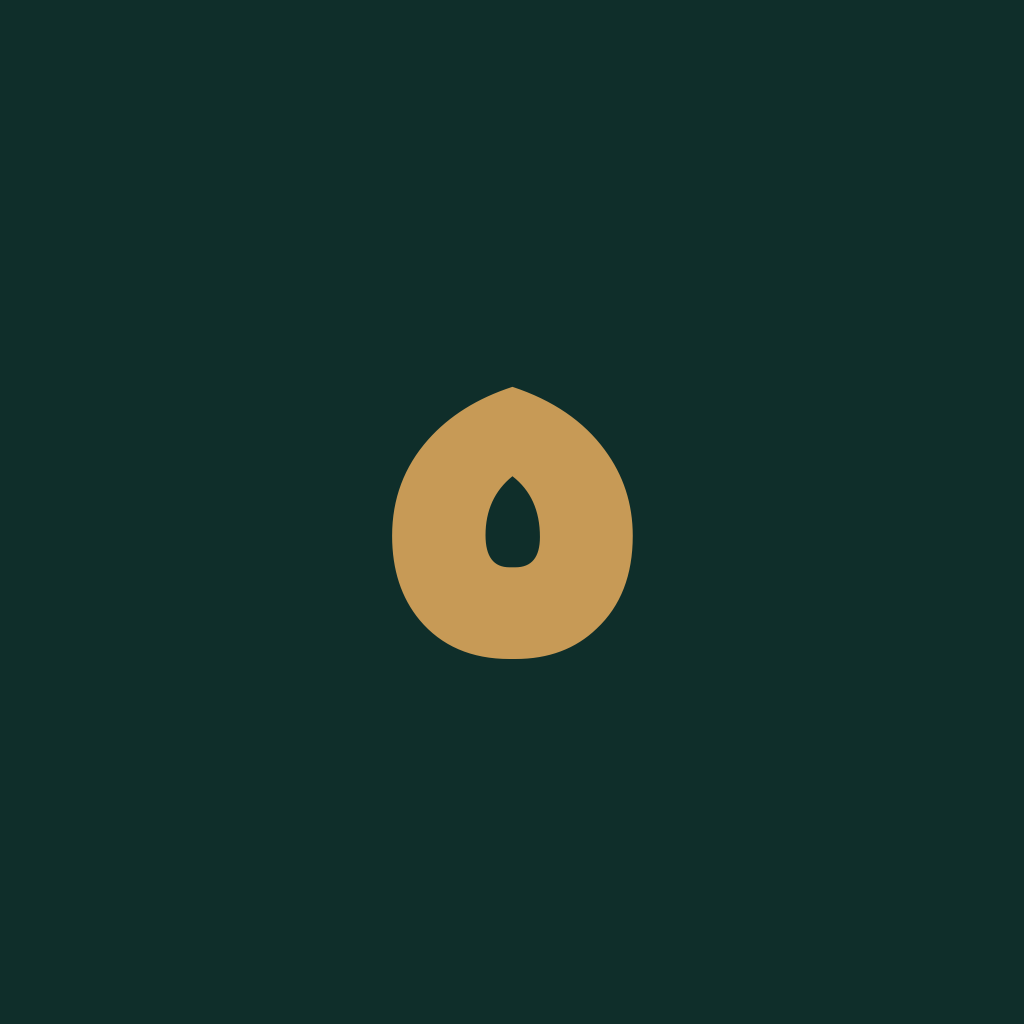
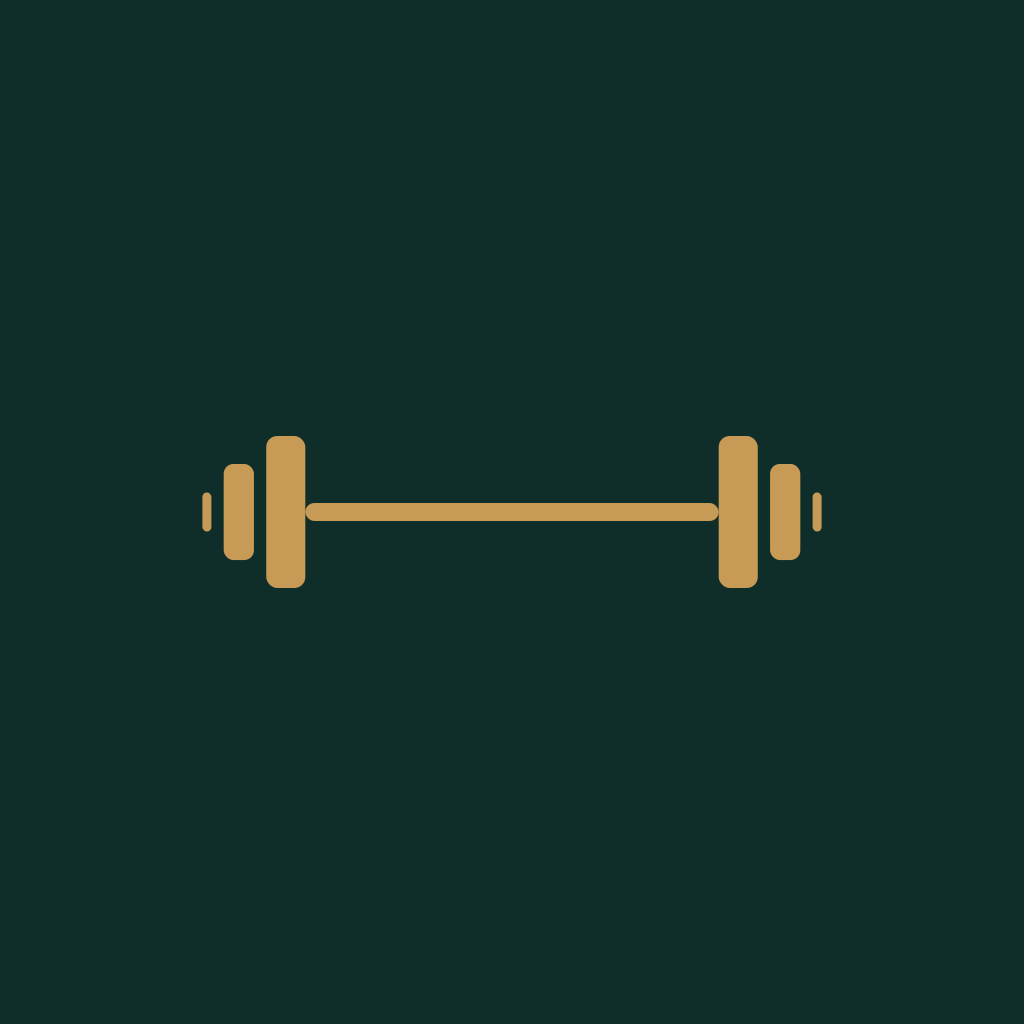
Replace placeholder mark with a real dumbbell matching the brand reference
The previous icon/splash assets used a generic teardrop/leaf shape as
the icon mark. Rebuilt it as a proper barbell (dumbbell) icon in SVG,
matching the proportions of the reference brand board image (plate
height/width, collar size, bar thickness all measured directly from
the reference and reproduced parametrically), in the exact same gold
(#C79A56) on the exact same dark teal (#0F2E2A) already used
throughout the design system.

- icon.png / favicon.png: dumbbell on solid teal background.
- splash-icon.png: only the small mark below the wordmark was
  replaced (cleared a bounded region well clear of the "هِمّة"
  calligraphy above it, verified by pixel bounding box before and
  after — the wordmark itself is untouched).
- android-icon-foreground.png: dumbbell on transparent background.
- android-icon-monochrome.png: same shape in flat white on
  transparent, per Android's monochrome adaptive-icon convention (the
  OS applies its own tint over the alpha shape).
- android-icon-background.png: unchanged (already solid teal).

Updated assets/branding/README.md and the App Store checklist to
describe the current state accurately instead of the stale "still
Expo's default template" note.

Claude-Session: https://claude.ai/code/session_01DYNSrsTWe6WqA7GvEzHspj

Changed region(s): [[0.1875, 0.375, 0.8125, 0.6562]]

diff --git a/assets/branding/README.md b/assets/branding/README.md
@@ -1,33 +1,35 @@
 # هوية هِمّة البصرية
 
-الشعار الرسمي وصل حتى الآن كصورة داخل المحادثة فقط، وليس كملف قابل
-للحفظ في المستودع. الألوان والخط المستخرجة منه مطبّقة فعليًا في
-`src/design-system` (انظر `colors.ts` و`typography.ts`)، لكن **الشعار
-نفسه كصورة (PNG/SVG) لم يُضَف بعد**.
+## الشعار الفعلي (مطابق للمرجع الرسمي الذي أرسله المالك)
 
-## الأيقونات الحالية (placeholder بهوية حقيقية، وليست الشعار النهائي)
+المرجع الرسمي "HEMMA | هِمّة — Brand Reference" (لوحة تحتوي الشعار
+الكامل + الألوان الأربعة) وصل كصورة مرجعية، وليس كملف PNG/SVG شفاف
+منعزل قابل للاستخدام مباشرة كأيقونة. لذلك أُعيد بناء علامة الدمبل
+(Barbell) الظاهرة في الشعار **متجهيًا (SVG)** بنفس نسب الشعار المرجعي
+بالضبط (قِيست يدويًا من الصورة: نسبة اللوحة الكبيرة/المتوسطة/الطوق
+الطرفي والقضيب الرفيع)، ثم استُبدلت بها العلامة المؤقتة (شكل دمعة/ورقة)
+الموجودة سابقًا في كل الأيقونات — بنفس الألوان المعتمدة تمامًا (تيل
+داكن `#0F2E2A` + ذهبي `#C79A56`)، بدون اختراع أي شكل جديد.
 
-بدل ترك أيقونة Expo الافتراضية (السهم الأزرق)، تم توليد أيقونة/سبلاش
-مؤقتة عبر سكربت بايثون (`gen_icons.py`، غير مضمّن في المستودع) تستخدم
-**فقط** ألوان وخط الهوية المعتمدَين فعليًا (تيل داكن `#0F2E2A` + ذهبي
-`#C79A56` + خط Tajawal) — بحرف "هـ" (أول حرف من "همة") كعلامة مبدئية،
-بدون اختراع أي شكل أو رمز جديد للهوية:
+كلمة "هِمّة" الخطّية (calligraphic wordmark) في `splash-icon.png`
+كانت موجودة أصلًا من جلسة سابقة ولم تُمَس إطلاقًا — فقط العلامة الصغيرة
+تحتها استُبدلت بالدمبل.
 
-- `assets/icon.png` — خلفية تيل داكن + حرف "هـ" ذهبي (أيقونة iOS/Android).
-- `assets/splash-icon.png` — كلمة "هِمّة" بالتيل + حرف "هـ" ذهبي، خلفية شفافة.
-- `assets/android-icon-*.png` — طبقات الأيقونة المتكيّفة لأندرويد بنفس الألوان.
-- `assets/favicon.png` — نفس أيقونة iOS مصغّرة (للويب فقط).
+- `assets/icon.png` — خلفية تيل داكن + دمبل ذهبي (أيقونة iOS/Android).
+- `assets/splash-icon.png` — كلمة "هِمّة" الخطّية (كما هي) + دمبل ذهبي تحتها، خلفية شفافة.
+- `assets/android-icon-foreground.png` / `-background.png` — طبقات أيقونة أندرويد المتكيّفة.
+- `assets/android-icon-monochrome.png` — نفس شكل الدمبل بلون أبيض واحد شفاف (أندرويد يطبّق تلوينه الخاص فوقه).
+- `assets/favicon.png` — نسخة مصغّرة من `icon.png` (للويب فقط).
 
-هذه الأيقونات **جاهزة لبناء EAS وتصلح للتجربة على الجهاز فعليًا**، لكنها
-تبقى مؤقتة إلى حين توفر الشعار الرسمي كملف حقيقي.
-
-## عند توفر ملف الشعار الفعلي
+## إن وصل ملف الشعار الرسمي الكامل (PNG/SVG شفاف نظيف) لاحقًا
 
 1. ضع نسخة SVG أو PNG بدقة عالية هنا باسم `logo.png` / `logo.svg`.
-2. استبدل `assets/icon.png`, `assets/splash-icon.png`,
-   `assets/android-icon-*.png`, `assets/favicon.png` بنسخ مشتقة من
-   الشعار الرسمي (1024×1024 للأيقونة الرئيسية).
-3. استبدل مكوّن `Wordmark` في `src/design-system/components/Wordmark.tsx`
-   (نص "هِمّة" بخط Tajawal حاليًا) بصورة الشعار الحقيقية إن رغبت.
+2. استبدل الأيقونات أعلاه بنسخ مشتقة مباشرة من الملف الرسمي (1024×1024
+   للأيقونة الرئيسية) بدل الدمبل المُعاد بناؤه يدويًا.
+3. مكوّن `Wordmark` في `src/design-system/components/Wordmark.tsx` نص
+   حي (وليس صورة) — يعرض "هِمّة"/"HEMMA" حسب اللغة الحالية بخط Tajawal
+   ولون العلامة. استبداله بصورة الشعار الحقيقية ممكن لاحقًا إن رغب
+   المالك، لكنه يتطلب موازنة الحجم يدويًا (الشعار يُستخدم حاليًا بأحجام
+   متفاوتة داخل الشاشات، والنص يتوسّع بسلاسة بعكس الصورة الثابتة).
 4. أعد تشغيل `npx expo prebuild --platform ios --clean` (أو ابنِ عبر EAS
    مباشرة) لتوليد الأيقونات الجديدة داخل المشروع الأصلي.

diff --git a/docs/APP_STORE_REVIEW_CHECKLIST.md b/docs/APP_STORE_REVIEW_CHECKLIST.md
@@ -9,8 +9,10 @@
 - [x] Bundle Identifier مبدئي: `com.hemma.app` (`app.json`) — يحتاج
       تسجيله فعليًا في حساب Apple Developer، أو تغييره لو غير متاح.
 - [x] EAS build profiles (`eas.json`): development / preview / production
-- [x] أيقونة وSplash مُهيّأة (بألوان الهوية) — لكنها لا تزال **قالب
-      Expo الافتراضي**، وليست الشعار الحقيقي (راجع `assets/branding/README.md`)
+- [x] أيقونة وSplash مُعاد بناؤهما ليطابقا شعار الهوية المرجعي (دمبل ذهبي
+      + كلمة "هِمّة" الخطّية، بنفس الألوان بالضبط) — راجع `assets/branding/README.md`.
+      لا تزال بديلاً مُعاد بناؤه يدويًا (SVG) وليست ملف الشعار الرسمي
+      الأصلي نفسه؛ استبدالها بالملف الرسمي إن توفر لاحقًا اختياري وليس ضروريًا
 - [x] وصف صلاحية HealthKit بالعربي في `app.json`، صلاحيات قراءة فقط
       (لا كتابة)، بلا Background Delivery
 - [x] حذف الحساب من داخل التطبيق (حسابي ← حذف حسابي نهائيًا) —
@@ -36,7 +38,7 @@
 
 ## ⏳ يحتاج قرارات/محتوى من المالك
 
-- [ ] استبدال أيقونة/Splash المؤقتة بالشعار الحقيقي (ملف PNG/SVG فعلي)
+- [ ] استبدال أيقونة/Splash المُعاد بناؤها بملف الشعار الرسمي الأصلي (PNG/SVG شفاف نظيف) إن توفر — اختياري، الحالي مطابق للألوان والشكل فعليًا
 - [ ] مراجعة قانونية لسياسة الخصوصية ونشرها على رابط عام حقيقي
 - [ ] رابط دعم فني (بريد أو صفحة) لإدراجه في App Store Connect
 - [ ] لقطات شاشة فعلية بجميع مقاسات الأجهزة المطلوبة
